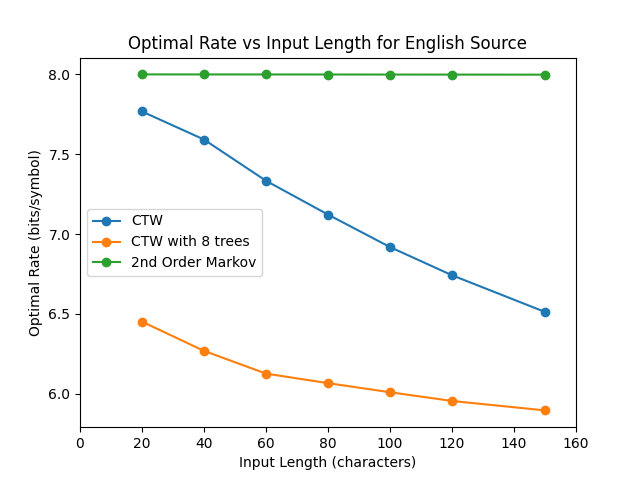
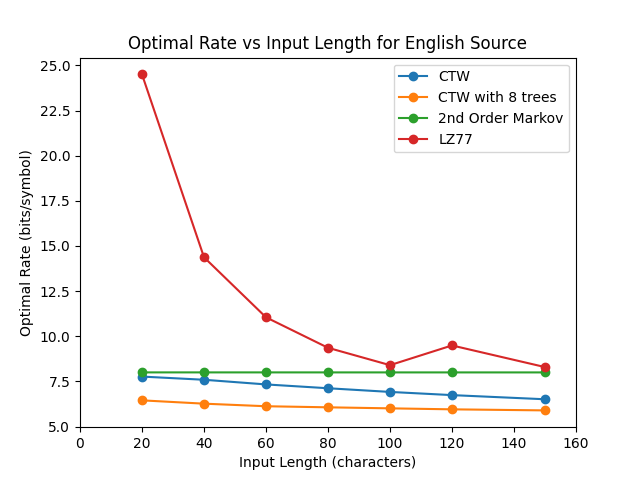
scripts for pres

diff --git a/scl/compressors/ctw_eval.py b/scl/compressors/ctw_eval.py
@@ -6,6 +6,7 @@ from scl.compressors.huffman_coder import (
 )
 from scl.compressors.probability_models import (
     AdaptiveIIDFreqModel,
+    AdaptiveOrderKFreqModel,
 )
 from scl.core.data_block import DataBlock
 from scl.core.prob_dist import Frequencies, ProbabilityDist, get_avg_neg_log_prob
@@ -24,6 +25,7 @@ from scl.compressors.lz77 import (
 from scl.utils.test_utils import get_random_data_block, try_lossless_compression
 import copy
 from math import log2
+import matplotlib.pyplot as plt
 import numpy as np
 import tempfile
 import time
@@ -56,7 +58,8 @@ def gen_kth_order_markov_seq(k: int, num_samples: int, prob_bit_flip: float=0.5,
 
 # Graph time vs input size and/or tree depth
 
-def test_adaptive_order_k_arithmetic_coding():
+
+def test_ctw_model():
     """
     Test CTW coding on 2nd order Markov
     - Check if encoding/decodng is lossless
@@ -73,10 +76,41 @@ def test_adaptive_order_k_arithmetic_coding():
 
     start_time = time.time()
     avg_codelen = compress_sequence(markov_seq)
-    np.testing.assert_almost_equal(avg_codelen, 0.3*log2(1/0.3)+0.7*log2(1/0.7), decimal=1)
     time_taken = time.time() - start_time
     print("coding took", time_taken*1000, "(ms)")
     print(avg_codelen, 0.3*log2(1/0.3)+0.7*log2(1/0.7))
+
+
+def test_adaptive_order_k_arithmetic_coding():
+    """
+    Test CTW coding on 2nd order Markov
+    - Check if encoding/decodng is lossless
+    - Check if the compression is close to expected for k = 0, 1, 2, 3
+    - Verify that 0th order matches the adaptive IID exactly.
+    """
+
+    DATA_SIZE = 2**16
+
+    start_time = time.time()
+    markov_seq = gen_kth_order_markov_seq(3, DATA_SIZE, 0.3)
+    time_taken = time.time() - start_time
+    print("generating input took", time_taken, "(ms)")
+
+    # define AEC params
+    aec_params = AECParams()
+    freq_model_enc = AdaptiveOrderKFreqModel([0, 1], 3, aec_params.MAX_ALLOWED_TOTAL_FREQ)
+    freq_model_dec = copy.deepcopy(freq_model_enc)
+
+    # create encoder/decoder
+    encoder = ArithmeticEncoder(aec_params, freq_model_enc)
+    decoder = ArithmeticDecoder(aec_params, freq_model_dec)
+
+    start_time = time.time()
+    is_lossless, output_len, _  = try_lossless_compression(DataBlock(markov_seq), encoder, decoder)
+    time_taken = time.time() - start_time
+    print("adaptive coding took", time_taken*1000, "(ms)")
+    avg_codelen = output_len / DATA_SIZE
+    print(f"avg_codelen: {avg_codelen:.3f}")
 
 
 
@@ -111,10 +145,6 @@ def test_huffman_encoding():
     avg_codelen = output_len / DATA_SIZE
     print(f"avg_codelen: {avg_codelen:.3f}")
 
-    # get optimal codelen
-    #optimal_codelen = get_avg_neg_log_prob(prob_dist, data_block)
-    assert is_lossless, "Lossless compression failed"
-
 
 def test_lz77_multiblock_file_encode_decode():
     """full test for LZ77Encoder and LZ77Decoder
@@ -141,101 +171,92 @@ def test_lz77_multiblock_file_encode_decode():
     print(f"avg_codelen: {avg_codelen:.3f}")
     print("lz77 coding took", time_taken_lz77*1000, "(ms)")
 
-
-   
-"""
-def test_adaptive_arithmetic_coding():
-    Test if AEC coding is working as expcted for different parameter settings
-    - Check if encoding/decodng is lossless
-    - Check if the compression is close to optimal
-
-    NUM_SAMPLES = 1000
-
-    DATA_SIZE = 2**16
-
-    markov_seq = gen_kth_order_markov_seq(3, DATA_SIZE)
-    data_block_lz77 = DataBlock(markov_seq)
-
-    # trying out some random frequencies/aec_parameters
-    data_freqs_list = [
-        Frequencies({"A": 1, "B": 1, "C": 2}),
-        Frequencies({"A": 12, "B": 34, "C": 1, "D": 45}),
-        Frequencies({"A": 34, "B": 35, "C": 546, "D": 1, "E": 13, "F": 245}),
-        Frequencies({"A": 5, "B": 5, "C": 5, "D": 5, "E": 5, "F": 5}),
-    ]
-
-    params_list = [
-        AECParams(),
-        AECParams(),
-        AECParams(DATA_BLOCK_SIZE_BITS=12),
-        AECParams(DATA_BLOCK_SIZE_BITS=12, PRECISION=16),
-    ]
-    
-    ## create adaptive coder
-    for freq, params in zip(data_freqs_list, params_list):
-
-        # define initial distribution to be uniform
-        uniform_dist = Frequencies({a: 1 for a in freq.alphabet})
-
-        # create encoder/decoder model
-        # NOTE: important to make a copy, as the encoder updates the model, and we don't want to pass
-        # the update model around
-        freq_model_enc = AdaptiveIIDFreqModel(
-            freqs_initial=uniform_dist, max_allowed_total_freq=params.MAX_ALLOWED_TOTAL_FREQ
-        )
-        freq_model_dec = copy.deepcopy(freq_model_enc)
-
-        # create enc/dec
-        encoder = ArithmeticEncoder(params, freq_model_enc)
-        decoder = ArithmeticDecoder(params, freq_model_dec)
-        def lossless_entropy_coder_test_new(
-            encoder: DataEncoder,
-            decoder: DataDecoder,
-            freq: Frequencies,
-            data_size: int,
-            encoding_optimality_precision: bool = None,
-            seed: int = 0,
-        ):
-            Checks if the given entropy coder performs lossless compression and optionally if it is
-            "optimal".
-
-            NOTE: the notion of optimality is w.r.t to the avg_log_probability of the randomly
-            generated input.
-            Example usage is for compressors such as Huffman, AEC, rANS etc.
-
-            Args:
-                encoder (DataEncoder): Encoder to test with
-                decoder (DataDecoder): Decoder to test lossless compression with
-                freq (Frequencies): freq distribution used to generate random i.i.d data
-                data_size (int): the size of the data to generate
-                encoding_optimality_precision (bool, optional): Optionally (if not None) check if the average log_prob is close to the avg_codelen. Defaults to None.
-                seed (int, optional): _description_. seed to generate random data. Defaults to 0.
-            # generate random data
-            prob_dist = freq.get_prob_dist()
-            data_block = get_random_data_block(prob_dist, data_size, seed=seed)
-            avg_log_prob = get_avg_neg_log_prob(prob_dist, data_block)
-
-            # check if encoding/decoding is lossless
-            start_time_adaptive = time.time()
-            is_lossless, encode_len, _ = try_lossless_compression(
-                data_block, encoder, decoder, add_extra_bits_to_encoder_output=True
-            )
-            time_taken_adaptive = time.time() - start_time_adaptive
-            print("adaptive coding took", time_taken_adaptive*1000, "(ms)")
-
-            # avg codelen ignoring the bits used to signal num data elements
-            avg_codelen = (encode_len) / data_block.size
-            print(f" avg_log_prob={avg_log_prob:.3f}, avg_codelen: {avg_codelen:.3f}")
-
-            # check whether arithmetic coding results are close to optimal codelen
-            if encoding_optimality_precision is not None:
-                err_msg = f"avg_codelen={avg_codelen} is not {encoding_optimality_precision} close to avg_log_prob={avg_log_prob}"
-                assert np.abs(avg_codelen - avg_log_prob) < encoding_optimality_precision, err_msg
-
-            assert is_lossless
-
-        lossless_entropy_coder_test_new(
-            encoder, decoder, freq, NUM_SAMPLES, encoding_optimality_precision=1e-1, seed=0
-        )
+def test_and_plot():
+    sizes = [100, 200, 500, 1000, 2000, 5000, 10000]
+    ctw_t = []
+    ctw_r = []
+    adapt_t = []
+    adapt_r = []
+    huff_t = []
+    huff_r = []
+    lz_t = []
+    lz_r = []
+    aec_params = AECParams()
+    for data_size in sizes:
+        markov_seq = gen_kth_order_markov_seq(3, data_size, prob_bit_flip=0.1)
+        seq_as_datablock = DataBlock(markov_seq)
+        prob_dist = seq_as_datablock.get_empirical_distribution(order=0)
         
-        """
+        freq_model_enc = CTWModel(3, BitArray("000"))
+        freq_model_dec = copy.deepcopy(freq_model_enc)
+        encoder = ArithmeticEncoder(aec_params, freq_model_enc)
+        decoder = ArithmeticDecoder(aec_params, freq_model_dec)
+        start_time_huffman = time.time()
+        is_lossless, output_len, _ = try_lossless_compression(seq_as_datablock, encoder, decoder)
+        time_taken_huffman = time.time() - start_time_huffman
+        assert is_lossless
+        ctw_t.append(time_taken_huffman*1000)
+        ctw_r.append(output_len / data_size)
+
+        freq_model_enc = AdaptiveOrderKFreqModel([0, 1], 3, aec_params.MAX_ALLOWED_TOTAL_FREQ)
+        freq_model_dec = copy.deepcopy(freq_model_enc)
+        encoder = ArithmeticEncoder(aec_params, freq_model_enc)
+        decoder = ArithmeticDecoder(aec_params, freq_model_dec)
+        start_time_huffman = time.time()
+        is_lossless, output_len, _ = try_lossless_compression(seq_as_datablock, encoder, decoder)
+        time_taken_huffman = time.time() - start_time_huffman
+        assert is_lossless
+        adapt_t.append(time_taken_huffman*1000)
+        adapt_r.append(output_len / data_size)
+
+        encoder = HuffmanEncoder(prob_dist)
+        decoder = HuffmanDecoder(prob_dist)
+        start_time_huffman = time.time()
+        is_lossless, output_len, _ = try_lossless_compression(seq_as_datablock, encoder, decoder)
+        time_taken_huffman = time.time() - start_time_huffman
+        assert is_lossless
+        huff_t.append(time_taken_huffman*1000)
+        huff_r.append(output_len / data_size)
+
+        encoder = LZ77Encoder(initial_window=None)
+        decoder = LZ77Decoder(initial_window=None)
+        start_time_huffman = time.time()
+        # TODO: uncomment and fix resulting error
+        # is_lossless, output_len, _ = try_lossless_compression(seq_as_datablock, encoder, decoder)
+        time_taken_huffman = time.time() - start_time_huffman
+        assert is_lossless
+        lz_t.append(time_taken_huffman*1000)
+        lz_r.append(output_len / data_size)
+
+    plt.figure()
+    plt.plot(sizes, ctw_t, 'o-')  # 'o-' means that the points will be marked and connected by a line
+    plt.plot(sizes, adapt_t, 'o-')
+    plt.plot(sizes, huff_t, 'o-')
+    plt.plot(sizes, lz_t, 'o-')
+
+
+    plt.xlabel('Input Length (symbols)')
+    plt.ylabel('Time (ms))')
+    plt.legend(["CTW", "3rd Order Markov", "Huffman", "LZ77"])
+
+    plt.title("Compression Time (Encode + Decode) vs Input Length")
+    plt.savefig('time_vs_length_all.png')
+
+    plt.figure()
+    plt.plot(sizes, ctw_r, 'o-')  # 'o-' means that the points will be marked and connected by a line
+    plt.plot(sizes, adapt_r, 'o-')
+    plt.plot(sizes, huff_r, 'o-')
+    plt.plot(sizes, lz_r, 'o-')
+
+
+    plt.xlabel('Input Length (symbols)')
+    plt.ylabel('Rate (bits/symbol))')
+    plt.legend(["CTW", "3rd Order Markov", "Huffman", "LZ77"])
+    prob_flip = 0.1
+    plt.ylim([0, 1.1])
+    plt.axhline(prob_flip*log2(1/prob_flip) + (1-prob_flip)*log2(1/(1-prob_flip)), color='green', linestyle='--')
+
+    plt.title("Compression Rate vs Input Length")
+    plt.savefig('rate_vs_length_all.png')
+
+test_and_plot()

diff --git a/scl/compressors/ctw_perf_eval.py b/scl/compressors/ctw_perf_eval.py
@@ -1,3 +1,5 @@
+from scl.core.data_block import DataBlock
+from scl.compressors.lz77 import LZ77Encoder
 from scl.compressors.arithmetic_coding import AECParams, ArithmeticEncoder
 from scl.compressors.ctw_eval import gen_kth_order_markov_seq
 from scl.compressors.ctw_model import CTWModel, CTWModelUnicode
@@ -94,7 +96,7 @@ def test_time_vs_tree_size():
 
 def test_memory_vs_tree_size():
     BLACKLIST = type, ModuleType, FunctionType
-
+    
     def getsize(obj):
         """sum size of object & members."""
         if isinstance(obj, BLACKLIST):
@@ -113,10 +115,13 @@ def test_memory_vs_tree_size():
         return size
 
     sizes = [0, 1, 2, 3, 4, 5, 6, 7, 8, 9, 10]
-    tree_sizes = [getsize(CTWTree(size, BitArray("0"*size)))/1000 for size in sizes]
+
+    # tree_sizes = [getsize(CTWTree(size, BitArray("0"*size)))/1000 for size in sizes]
+    tree_sizes = [1.024, 1.52, 2.452, 4.316, 8.044, 15.5, 30.412, 60.236, 119.884, 240.716, 480.332]
+    print(tree_sizes)
 
     plt.figure()
-    plt.plot(sizes, tree_sizes)
+    plt.plot(sizes, tree_sizes, 'o-')
     plt.xlabel('Tree Size (Height)')
     plt.ylabel('Size in Memory (kB)')
     plt.title("Memory Usage vs Tree Size")
@@ -233,7 +238,6 @@ def test_rate_vs_input_length_english():
     aec_params = AECParams()
     k_chars=2
 
-
     """
     expected_rates = []
     expected_rates_unicode = []
@@ -262,6 +266,18 @@ def test_rate_vs_input_length_english():
         expected_markov_rates.append(markov_bits/input_size)
     """
 
+    expected_lz77_rates = []
+    for input_size in sizes_to_test:
+        input_seq = sample_text[:input_size]
+        input_seq_binary = []
+        for char in input_seq:
+            input_seq_binary += uint_to_bitarray(ord(char), bit_width=NUM_TREES).tolist()
+        
+        lz77_enc = LZ77Encoder(initial_window=None)
+
+        lz77_bits = lz77_enc.encode_block(DataBlock(input_seq))
+
+        expected_lz77_rates.append(len(lz77_bits)/input_size)
 
     expected_rates_precomputed = [7.767702521503873, 7.591960185250805, 7.333576247710156, 7.121935185837094, 6.918347069483133, 6.741904222534488, 6.511946794167895]
     expected_rates_unicode_precomputed = [6.451259916162104, 6.268055797216225, 6.125702512671365, 6.065929549807966, 6.0090381323044415, 5.954248159267637, 5.895249096437932]
@@ -270,16 +286,18 @@ def test_rate_vs_input_length_english():
     print(expected_rates_unicode_precomputed)
     print(expected_markov_rates_precomputed)
 
+    print(expected_lz77_rates)
 
     plt.figure()
     plt.plot(sizes_to_test, expected_rates_precomputed, 'o-')  # 'o-' means that the points will be marked and connected by a line
     plt.plot(sizes_to_test, expected_rates_unicode_precomputed, 'o-')
     plt.plot(sizes_to_test, expected_markov_rates_precomputed, 'o-')
+    plt.plot(sizes_to_test, expected_lz77_rates, 'o-')
 
 
     plt.xlabel('Input Length (characters)')
     plt.ylabel('Optimal Rate (bits/symbol)')
-    plt.legend(["CTW", "CTW with 8 trees", str(k_chars) + "nd Order Markov"])
+    plt.legend(["CTW", "CTW with 8 trees", str(k_chars) + "nd Order Markov", "LZ77"])
     # plt.ylim(5.5, 8.5)
     plt.xlim(0, 160)
 

diff --git a/scl/compressors/lz77.py b/scl/compressors/lz77.py
@@ -140,7 +140,7 @@ class EmpiricalIntHuffmanEncoder(DataEncoder):
     def encode_block(self, data_block: DataBlock):
         vals = data_block.data_list
         # verify that all values are in the range 0 to alphabet_size-1
-        assert all([val >= 0 and val < self.alphabet_size for val in vals])
+        # assert all([val >= 0 and val < self.alphabet_size for val in vals])
 
         # first encode the values with empirical Huffman code
         counts = DataBlock(vals).get_counts()
